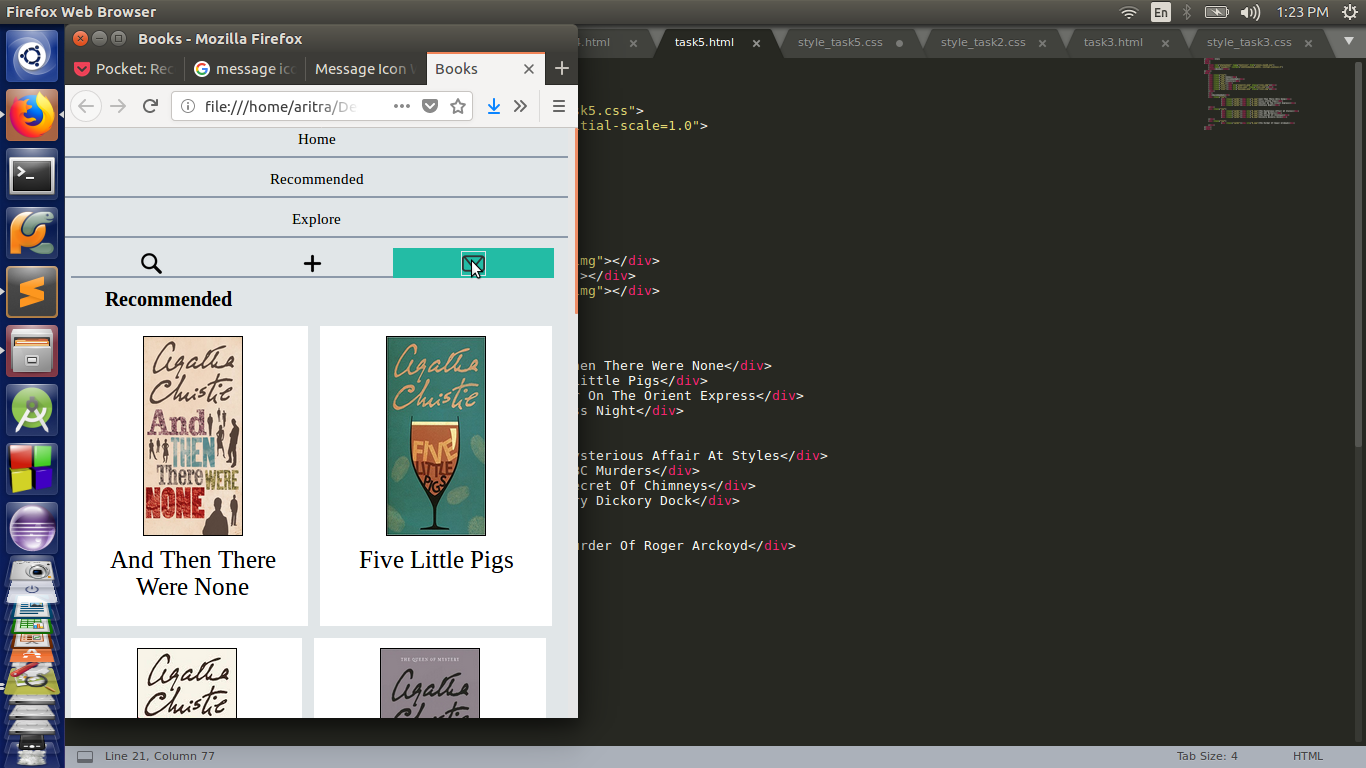
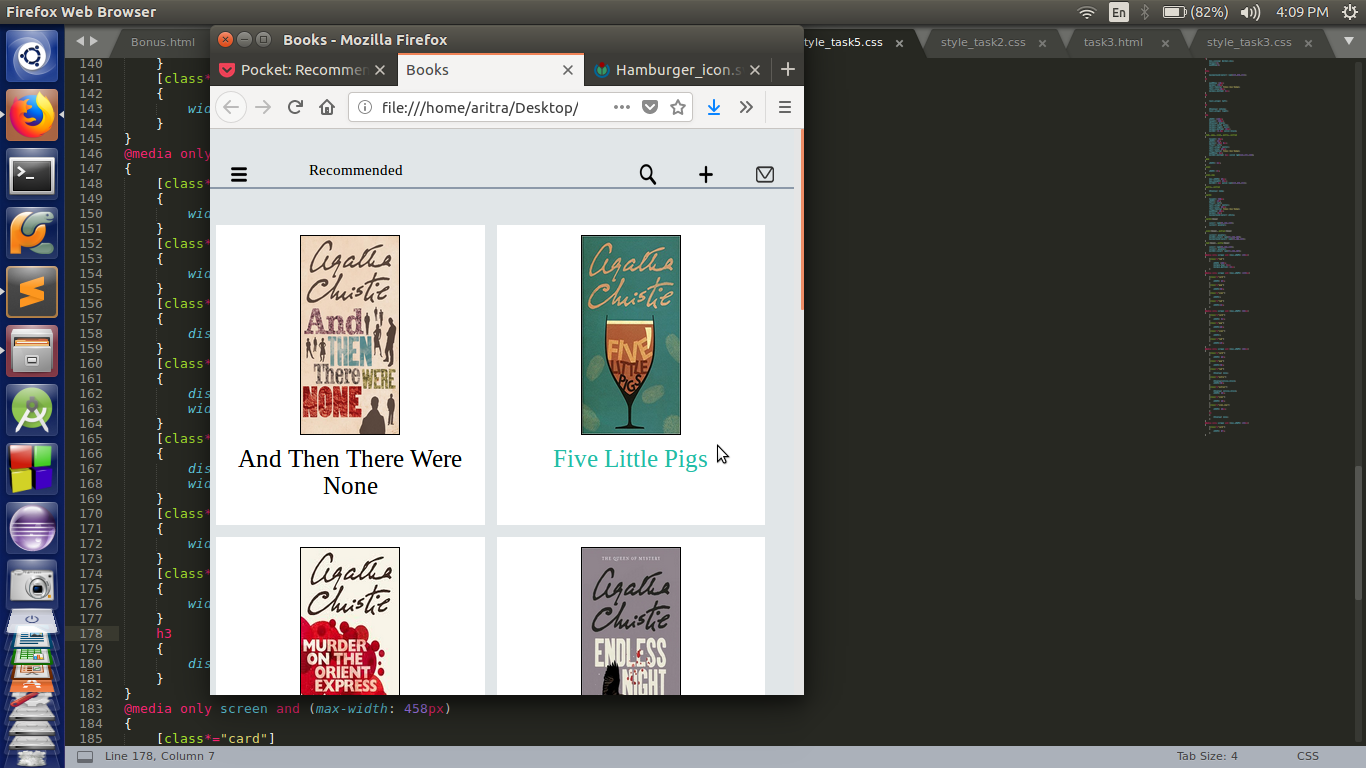
Modified task 5

diff --git a/aritraban/Task 5/style_task5.css b/aritraban/Task 5/style_task5.css
@@ -15,7 +15,6 @@ h3
 	font-family: Times New Roman;
 	font-size:20px;
 	margin-bottom: 0px;
-
 }
 h4
 {
@@ -37,7 +36,7 @@ img
 	margin-bottom: 10px;
 	border :0.5px solid black;
 }
-.tab,.gap,.icon
+.tab,.gap,.icon,.extra,.extra1
 {
 	height: 30px; 
 	width: 10%;
@@ -63,6 +62,10 @@ img
 	max-height: 25px;
 	border: 1px solid rgb(225,230,232);
 }
+.extra,.extra1
+{
+	display: none;
+}
 .card1 
 {
 	height: 300px; 
@@ -81,13 +84,13 @@ img
 	cursor: pointer;
 }
 
-.icon:hover
+.icon:hover,.extra1:hover
 {
 	cursor: pointer;
 	border-color: rgb(35,188,165);
 	background-color: rgb(35,188,165);
 }
-.tab:hover
+.tab:hover,.extra:hover
 {
 	color: rgb(35,188,165);
 	cursor: pointer;
@@ -148,20 +151,33 @@ img
 	}
 	[class*="gap"]
 	{
-		width:0%;
-		border:0px;
-	}
-	[class*="icon"]
-	{
-		width: 32%;
-		margin-top: 0px;
-		margin-bottom: 10px;
+		width:30%;
 	}
 	[class*="tab"]
 	{
-		width:100%;
-		margin-top: 0px;
-		margin-bottom: 10px; 
+		display: none; 
+	}
+	[class*="extra"]
+	{
+		display:inline-block;
+		width:30%;
+	}
+	[class*="extra1"]
+	{
+		display: inline-block;
+		width: 10%;
+	}
+	[class*="icon"]
+	{
+		width: 10%;
+	}
+	[class*="icon-img"]
+	{
+		width: 20px;
+	}
+	h3
+	{
+		display: none;
 	}
 }
 @media only screen and (max-width: 458px)

diff --git a/aritraban/Task 5/task5.html b/aritraban/Task 5/task5.html
@@ -7,6 +7,8 @@
 </head>
 <body>
 	<div class="row">
+	<div class="extra1"><img src="menu_icon.png" class="icon-img"></div>
+	<div class="extra">Recommended</div>
 	<div class="tab">Home</div>
 	<div class="tab">Recommended</div>
 	<div class="tab">Explore</div>
